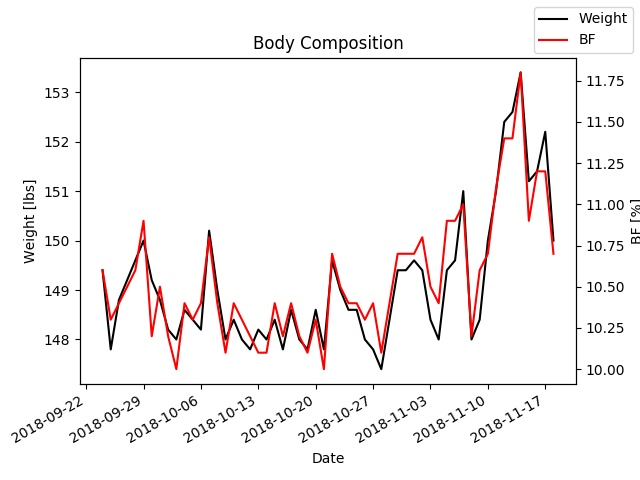
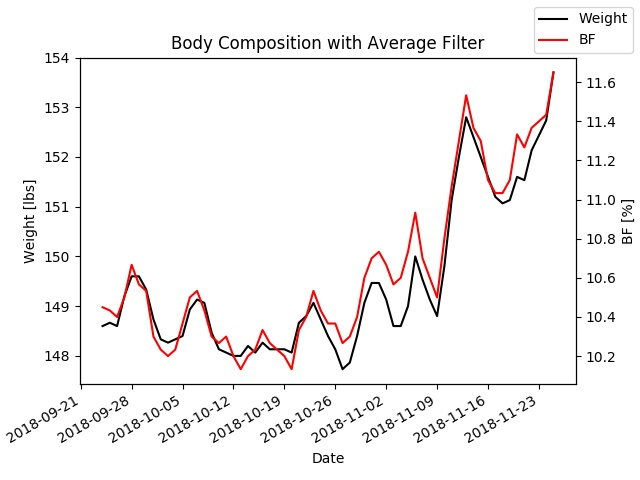
body recomp update

diff --git a/fitness/pltbodycomp.py b/fitness/pltbodycomp.py
@@ -27,6 +27,23 @@ for i, line in enumerate(content):
     bf.append(float(line[2]))
     goal.append(line[3])
 
+# AVERAGE
+avg_weight = [0]*len(weight)
+avg_bf = [0]*len(bf)
+for i in range(len(weight)):
+    if i == 0:
+        avg_weight[i]= (weight[i]+weight[i+1])/2
+        avg_bf[i]= (bf[i]+bf[i+1])/2
+    elif i == len(weight)-1:
+        avg_weight[i] = (weight[i]+weight[i-1])/2
+        avg_bf[i] = (bf[i]+bf[i-1])/2
+    else:
+        avg_weight[i] = (weight[i-1]+weight[i]+weight[i+1])/3
+        avg_bf[i] = (bf[i-1]+bf[i]+bf[i+1])/3
+weight = avg_weight
+bf = avg_bf
+
+# PLOTTING
 fig, ax1 = plt.subplots()
 ax1.plot_date(dates, weight, 'k', label="Weight")
 ax1.set_xlabel('Date')
@@ -39,7 +56,8 @@ ax2.set_ylabel('BF [%]')
 
 fig.autofmt_xdate()
 fig.legend(loc="upper right")
-plt.title('Body Composition')
+plt.title('Body Composition with Average Filter')
 
 if args.save: plt.savefig('body_comp.jpg')
 plt.show()
+# print(avg_weight)
